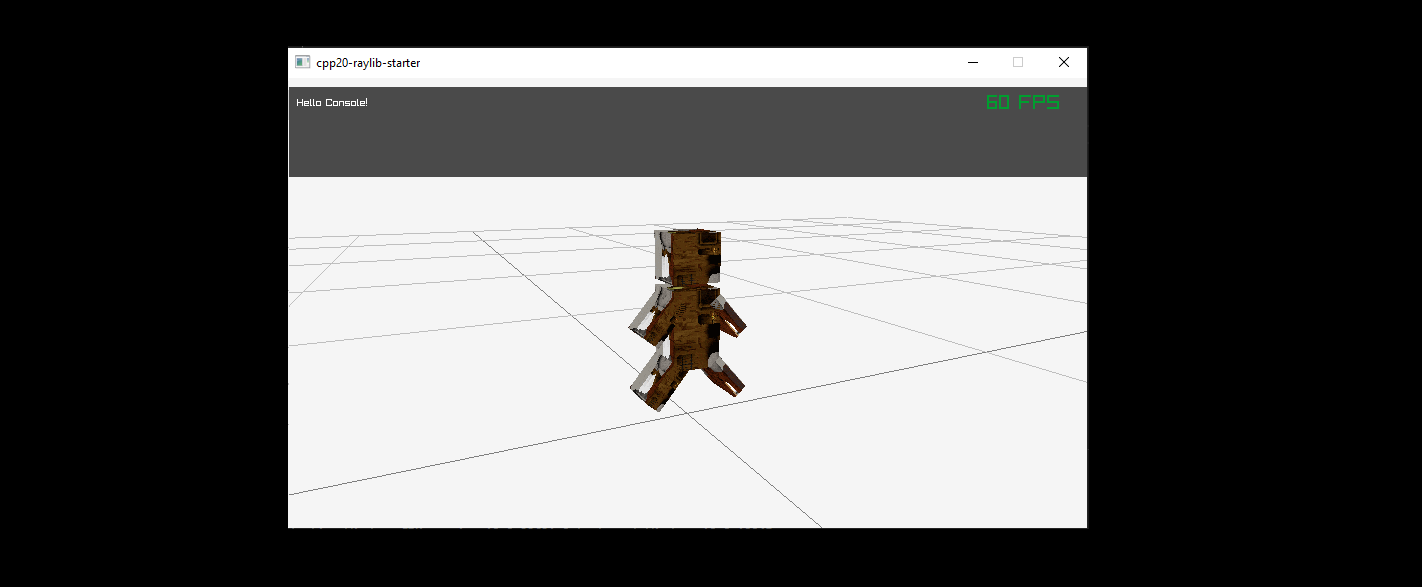
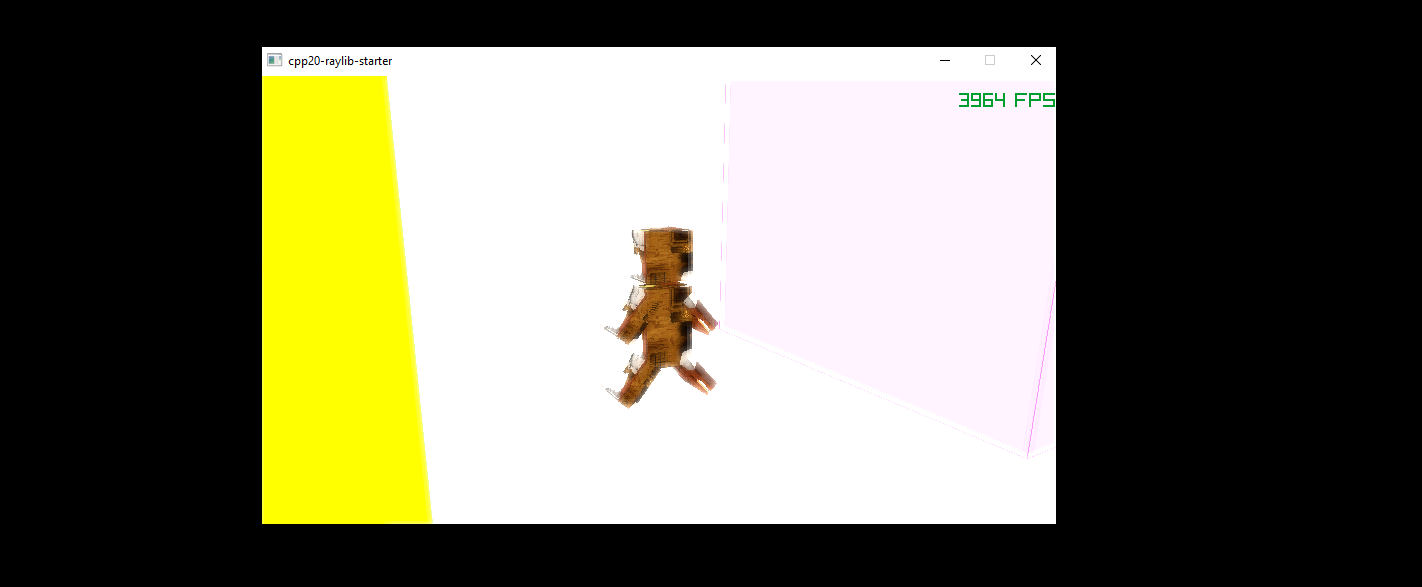
refactor: 💡 typo filename

Changed region(s): [[0.1857, 0.0613, 0.7736, 0.9199], [0.6807, 0.5826, 0.7117, 0.6133], [0.6498, 0.46, 0.6807, 0.4906]]

diff --git a/platform/core/src/core.c b/platform/core/src/core.c
@@ -1,4 +1,4 @@
-#include "shaders_postprocessing.h"
+#include "core.h"
 
 #include "raylib.h"
 
@@ -139,7 +139,11 @@ int main(AppProperties appProps)
 		ClearBackground(RAYWHITE); // Clear texture background
 		BeginMode3D(camera);
 		DrawModel(models[CHARACTER], position, 0.1f, WHITE);
-		DrawGrid(10, 1.0f);
+                    DrawCubeWiresV((Vector3){ 0.0f, 0.5f, 1.0f }, (Vector3){ 1.0f, 1.0f, 1.0f }, RED);
+                    DrawCubeV((Vector3){ 0.0f, 0.5f, 1.0f }, (Vector3){ 1.0f, 1.0f, 1.0f }, PURPLE);
+                    DrawCubeWiresV((Vector3){ 0.0f, 0.5f, -1.0f }, (Vector3){ 1.0f, 1.0f, 1.0f }, DARKGREEN);
+                    DrawCubeV((Vector3) { 0.0f, 0.5f, -1.0f }, (Vector3){ 1.0f, 1.0f, 1.0f }, YELLOW);
+                    DrawGrid(10, 1.0f);
 		EndMode3D();
 		EndTextureMode(); // End drawing to texture (now we have a texture available for next passes)
 

diff --git a/standalone/desktop_win64/src/main.cpp b/standalone/desktop_win64/src/main.cpp
@@ -1,5 +1,5 @@
 #include <windows.h>
-#include <shaders_postprocessing.h>
+#include <core.h>
 
 #include <stdio.h>
 #include <stdlib.h>
@@ -25,9 +25,9 @@ int APIENTRY WinMain(HINSTANCE hInstance,
     AppProperties appProperties;
     strcpy(appProperties.res_path, cstr);
     appProperties.msaa_enable = true;
-    appProperties.bloom_enable = false;
+    appProperties.bloom_enable = true;
     appProperties.glsl_version = GLSL_VERSION;
-    appProperties.fps_cap = 60;
+    appProperties.fps_cap = 0;
     appProperties.showFPS = true;
 
     return main(appProperties);

diff --git a/README.md b/README.md
@@ -177,7 +177,7 @@ cmake --build build --config Release
       :x: Octree
       :x: GeoMod
 - Scripting
-  - :x: Properties: 
+  - :hourglass: Properties: 
       :heavy_check_mark: code 
       :x: file
   - :hourglass: Console
